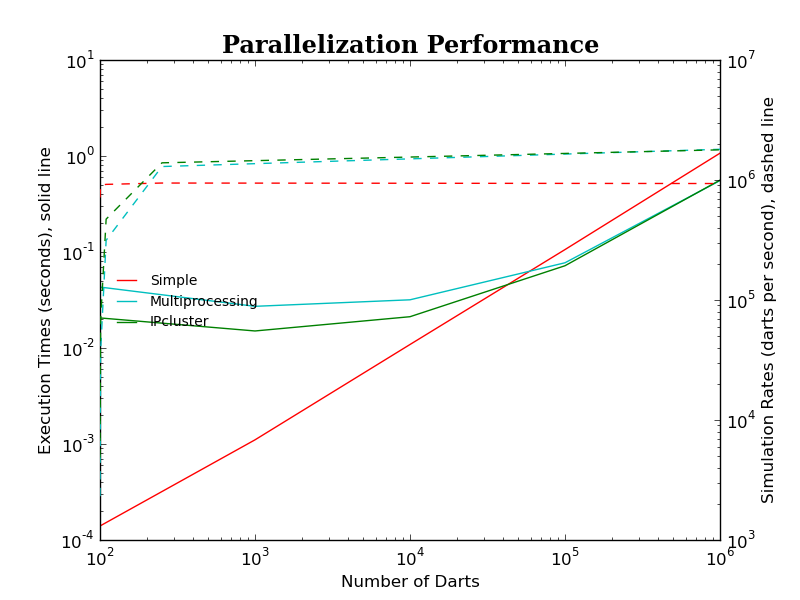
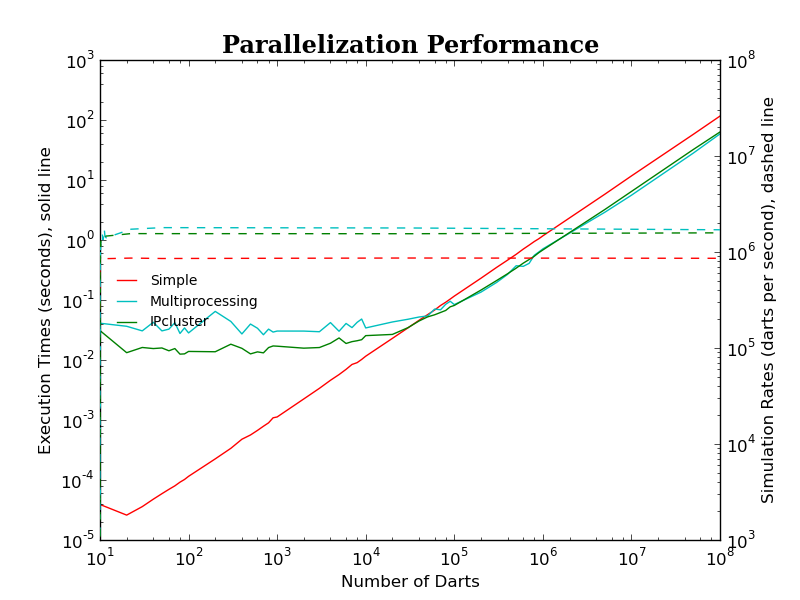
cleaned plot a bit, added to README.  Done except for problem with simulation_rates.

diff --git a/hw09-parallelization-cotterman/monte_carlo_parallelization.py b/hw09-parallelization-cotterman/monte_carlo_parallelization.py
@@ -28,7 +28,8 @@ from IPython.display import display
 
 
 def simple_method(num_darts):
-
+    """ Execute dart-throwing monte carlo with no parallelization
+    """
     start_time = time()
 
     pi_approx = find_pi(num_darts)
@@ -38,6 +39,8 @@ def simple_method(num_darts):
     return execution_time
 
 def darts_in_circle(num_darts):
+    """Throw specified number of darts. Count number that fall in circle.
+    """
     import random
     import math
     num_darts_in_circle = 0
@@ -56,7 +59,8 @@ def find_pi(num_darts):
 
 
 def do_parallel(num_darts_total):
-
+    """Use ipython's parallel module to run monte carlo simulation.
+    """
     start_time = time()
 
     rc = parallel.Client()
@@ -71,7 +75,6 @@ def do_parallel(num_darts_total):
     #in case num_darts_total was not divisible by nnod, calculate darts thrown
     num_darts_total = num_darts_divided * nnod
     pi_approx = ( circle_total/float(num_darts_total) ) * 4
-    print "Approx pi, parallel: " , pi_approx
     
     end_time = time()
     execution_time = end_time - start_time
@@ -79,6 +82,7 @@ def do_parallel(num_darts_total):
 
 
 def worker(input_queue, ip_queue_lock, output_queue, op_queue_lock):
+
     # loop until the queue is empty, and we can exit
     while True:
         # the lock is implicitly released when we exit from the with block
@@ -98,6 +102,8 @@ def worker(input_queue, ip_queue_lock, output_queue, op_queue_lock):
 
 def do_multip(num_darts_total, NTHREADS):
 
+    """Use python's multiprocessing module to run monte carlo simulation.
+    """
     start_time = time()
 
     manager = multiprocessing.Manager()
@@ -114,8 +120,8 @@ def do_multip(num_darts_total, NTHREADS):
             input_queue.append(num_darts_divided)
         else:
             input_queue.append(num_darts_divided + remainder)
-    print "Total number of darts thrown: " , num_darts_total
-    print "Input queue: " , input_queue
+    #print "Total number of darts thrown: " , num_darts_total
+    #print "Input queue: " , input_queue
 
     ps = []
     for i in xrange(NTHREADS):
@@ -127,15 +133,13 @@ def do_multip(num_darts_total, NTHREADS):
     # wait for the children processes to terminate
     for p in ps: 
         p.join()
-
-    print "output list: " , output_queue
+    #print "output list: " , output_queue
 
     #tally results from each process to find pi
     circle_total = 0
     for circle_count in output_queue:
         circle_total += circle_count
     pi_approx = ( circle_total/float(num_darts_total) ) * 4
-    print "Pi approximation: " , pi_approx
 
     end_time = time()
     execution_time = end_time - start_time
@@ -143,14 +147,21 @@ def do_multip(num_darts_total, NTHREADS):
 
 
 def make_plots(num_darts_list, execution_times_simple, execution_times_multip, execution_times_parallel):
-    
+    """Plot execution times for various runs
+    """
     simulation_rates_simple = []
     simulation_rates_multip = []
     simulation_rates_parallel = []
+    print "num_darts_list: " , num_darts_list
+
     for i in range(len(num_darts_list)):
-        simulation_rates_simple.append( num_darts_list[i]/execution_times_simple[i] )
-        simulation_rates_multip.append( num_darts_list[i]/execution_times_multip[i] )
-        simulation_rates_parallel.append( num_darts_list[i]/execution_times_parallel[i] )
+        simulation_rates_simple.append( float(num_darts_list[i])/execution_times_simple[i] )
+        simulation_rates_multip.append( float(num_darts_list[i])/execution_times_multip[i] )
+        simulation_rates_parallel.append( float(num_darts_list[i])/execution_times_parallel[i] )
+
+    print "simulation_rates_simple: " , simulation_rates_simple
+    print "simulation_rates_multip: " , simulation_rates_multip
+    print "simulation_rates_parallel: " , simulation_rates_parallel
 
     f, ax = plt.subplots()
     lns1 = ax.plot(num_darts_list, execution_times_simple, 
@@ -180,8 +191,9 @@ def make_plots(num_darts_list, execution_times_simple, execution_times_multip, e
     ax.set_xscale('log')
     ax.set_yscale('log')
     ax2.set_yscale('log')
+    ax2.set_ylim(10e1,10e6)
 
-    plt.savefig('parallelization_results.png')
+    plt.savefig('parallelization_results_v3.png')
 
 
 def main():
@@ -196,8 +208,11 @@ def main():
     #parallelization. Also, keep track of the simulation rate (darts thrown per
     #second). 
 
-    num_darts_list = [100, 1000, 10000, 100000, 1000000]
-    #num_darts_list = [1000]
+    num_darts_list = range(10,100,10)+\
+                     range(100,1000,100)+\
+                     range(1000,10000,1000)+\
+                     range(int(1e4),int(1e5),int(1e4))+\
+                     range(int(1e5),int(1e6),int(1e5))
 
     #1) No parallelization
 
